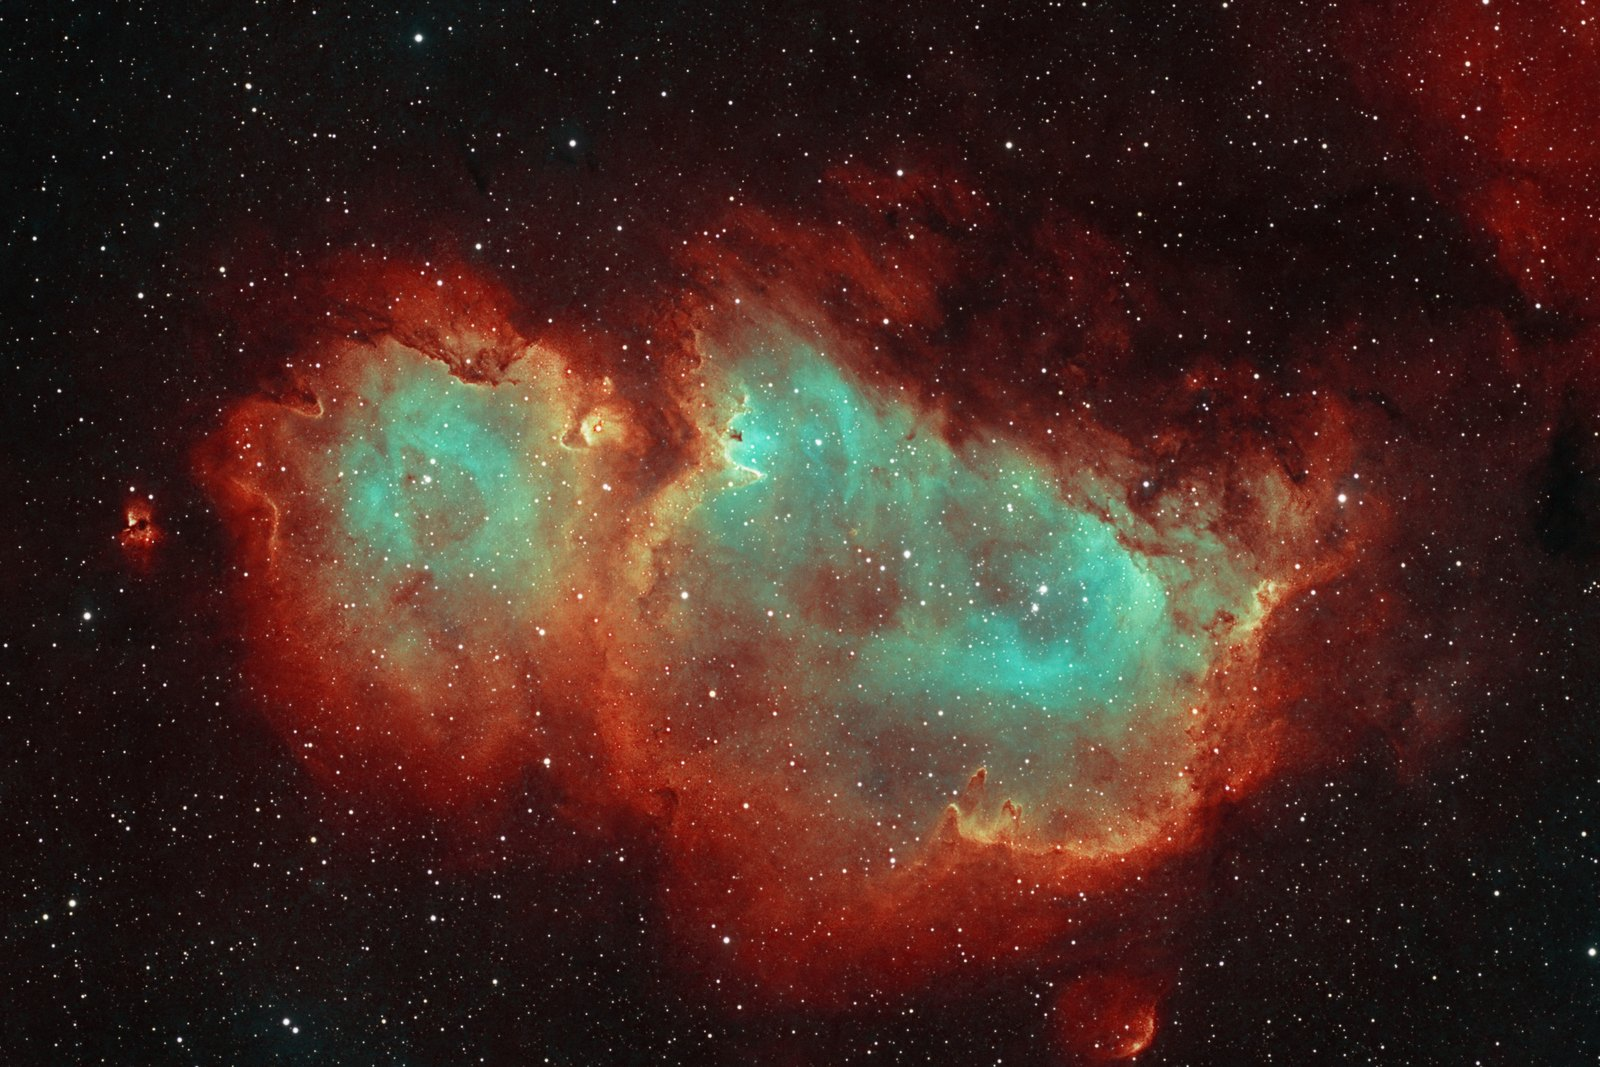
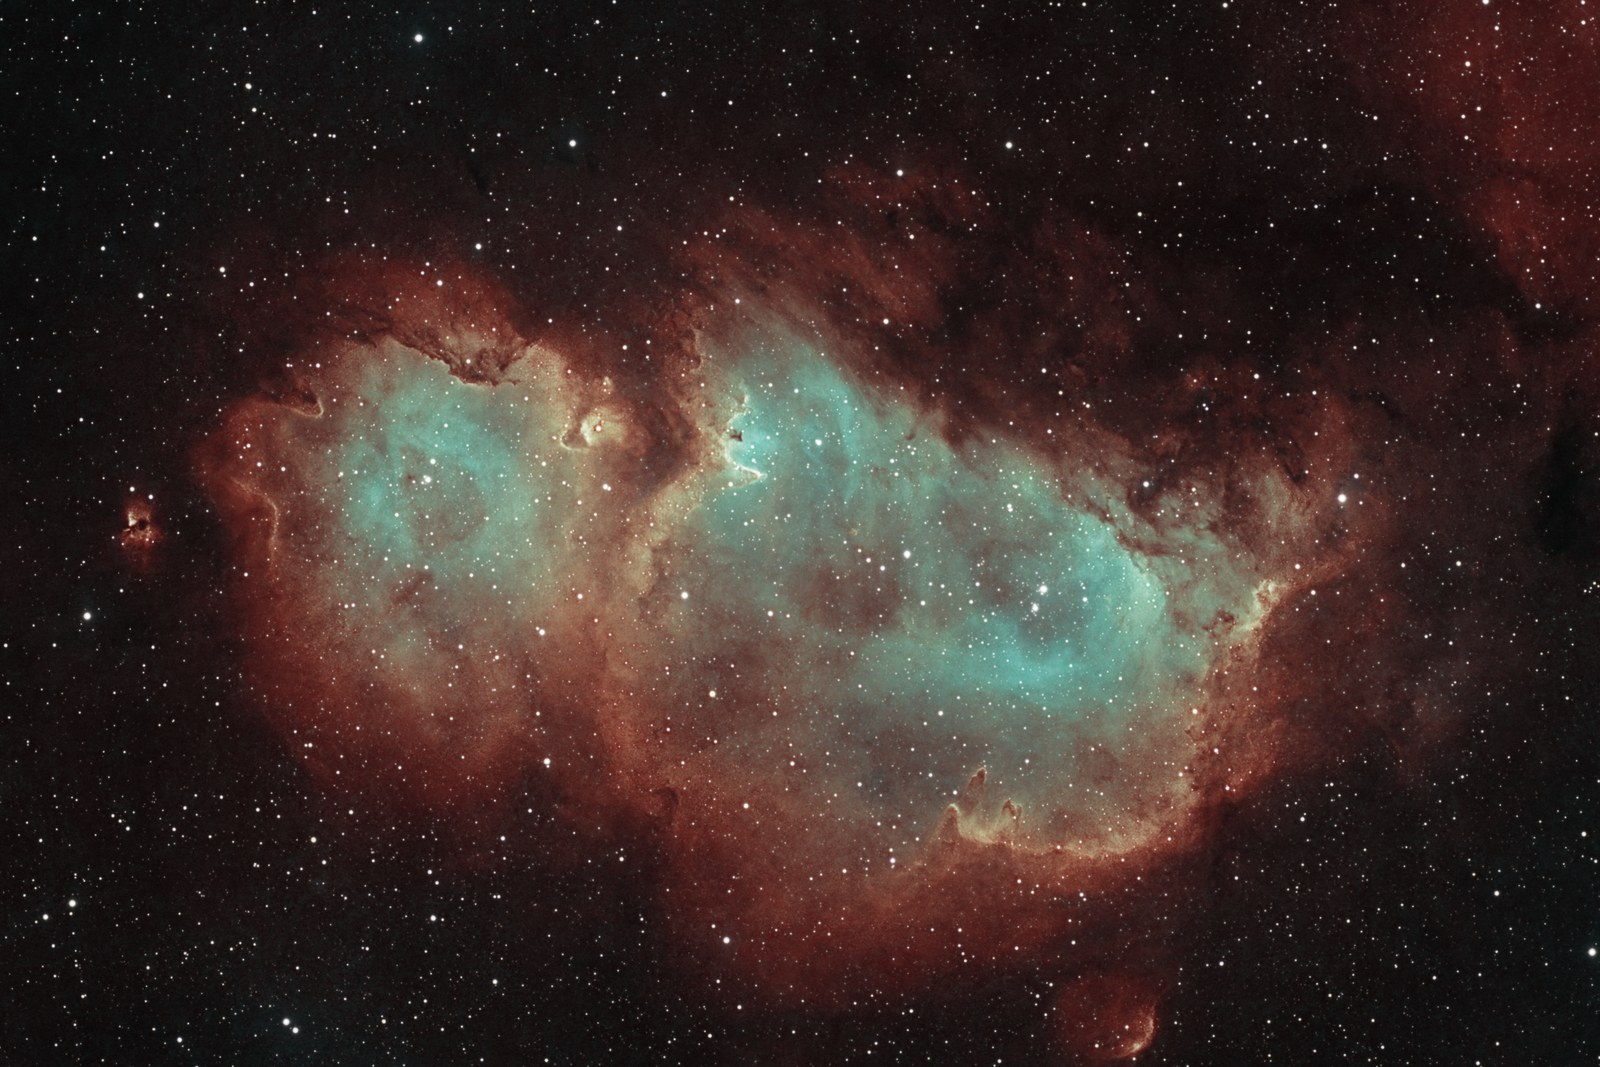
Heart and Soul (Telescope Live): all six images toned to 55% colour; Educator's Guide poster added

diff --git a/index.html b/index.html
@@ -609,6 +609,10 @@ html { scroll-behavior: smooth; }
         <figcaption><b>Heart and Soul, close crop (Telescope Live)</b><span>21 h 50 min · in red and teal or gold and blue</span><span class="credit">Processed by Mark Stanners, original data from Telescope Live</span><span class="sizes"><a class="buy" href="https://buy.stripe.com/6oUdR81Rkf6Fadq2Y60Fi0G" rel="noopener">A4 £25</a> <a class="buy" href="https://buy.stripe.com/14AdR81Rkf6F1GUeGO0Fi0H" rel="noopener">A3 £45</a> <a class="buy" href="https://buy.stripe.com/3cI6oG0NgbUt2KYdCK0Fi0I" rel="noopener">A2 £80</a></span><span class="onreq">A1 on request</span></figcaption>
       </figure>
       <figure class="print">
+        <img src="img/tl_hs_poster.jpg" alt="Heart and Soul – An Educator’s Guide to the Nebulae" loading="lazy">
+        <figcaption><b>Heart and Soul – An Educator’s Guide to the Nebulae</b><span>A labelled poster for the classroom wall: the Heart and the Soul, the young star cluster that lights the Heart, and what the colours mean, with facts below.</span><span class="credit">Processed by Mark Stanners, original data from Telescope Live</span><span class="sizes">A4 £25 A3 £45</span></figcaption>
+      </figure>
+      <figure class="print">
         <img src="img/tl_ic1848_soul.jpg" alt="Soul Nebula, IC 1848" loading="lazy">
         <div class="vers" role="group" aria-label="Version"><button type="button" aria-pressed="true" data-src="img/tl_ic1848_soul.jpg">Red &amp; teal</button><button type="button" aria-pressed="false" data-src="img/tl_ic1848_soul_gold.jpg">Gold &amp; blue</button></div>
         <figcaption><b>Soul Nebula, IC 1848</b><span>21 h 50 min · in red and teal or gold and blue</span><span class="credit">Processed by Mark Stanners, original data from Telescope Live</span><span class="sizes"><a class="buy" href="https://buy.stripe.com/cNi6oG1Rke2Badq6ai0Fi0J" rel="noopener">A4 £25</a> <a class="buy" href="https://buy.stripe.com/aFa28q0Ng9Ml1GUbuC0Fi0K" rel="noopener">A3 £45</a></span></figcaption>
@@ -627,7 +631,7 @@ html { scroll-behavior: smooth; }
     <div class="media">
       <h3>Acrylic and metal</h3>
       <p>Most images can also be made as a face-mounted acrylic or an aluminium-mounted print: deep blacks, ready to hang, no frame needed. Priced on request; as a guide, from about £120 at A3 and £220 at A2.</p>
-      <p class="note">At A3: Heart and Soul, Seestar mosaic; Andromeda, M31; The Pleiades, M45; Elephant&#x27;s Trunk, IC 1396; Garlic Nebula; Horsehead, B33; Horsehead and Flame, full field; Fighting Dragons of Ara, NGC 6188; Running Chicken, IC 2944; Dumbbell Nebula, M27; Ptolemy Cluster, M7; Eagle Nebula, M16; Heart and Soul, deep field with Sh2-200; Heart and Soul, close crop (Telescope Live); Soul Nebula, IC 1848; Andromeda, deep (Telescope Live); Andromeda – An Educator’s Guide to the Galaxy.</p>
+      <p class="note">At A3: Heart and Soul, Seestar mosaic; Andromeda, M31; The Pleiades, M45; Elephant&#x27;s Trunk, IC 1396; Garlic Nebula; Horsehead, B33; Horsehead and Flame, full field; Fighting Dragons of Ara, NGC 6188; Running Chicken, IC 2944; Dumbbell Nebula, M27; Ptolemy Cluster, M7; Eagle Nebula, M16; Heart and Soul, deep field with Sh2-200; Heart and Soul, close crop (Telescope Live); Heart and Soul – An Educator’s Guide to the Nebulae; Soul Nebula, IC 1848; Andromeda, deep (Telescope Live); Andromeda – An Educator’s Guide to the Galaxy.</p>
       <p class="note">At A2: Heart and Soul, Seestar mosaic; Garlic Nebula; Horsehead, B33; Horsehead and Flame, full field; Fighting Dragons of Ara, NGC 6188; Running Chicken, IC 2944; Dumbbell Nebula, M27; Ptolemy Cluster, M7; Heart and Soul, deep field with Sh2-200; Heart and Soul, close crop (Telescope Live).</p>
     </div>
     <p class="note pay"><b>Buying a print.</b> Tap a size to pay securely through Stripe by card, Apple Pay or Google Pay; your card details go to Stripe, never to me. There's a box at checkout for the optional legend wording. I print each one to order and email you when it's posted. UK delivery for now; for anywhere else, a size not listed, or acrylic and metal, email me.</p>

diff --git a/site.html b/site.html
@@ -595,6 +595,10 @@ html { scroll-behavior: smooth; }
         <figcaption><b>Heart and Soul, close crop (Telescope Live)</b><span>21 h 50 min · in red and teal or gold and blue</span><span class="credit">Processed by Mark Stanners, original data from Telescope Live</span><span class="sizes"><a class="buy" href="https://buy.stripe.com/6oUdR81Rkf6Fadq2Y60Fi0G" rel="noopener">A4 £25</a> <a class="buy" href="https://buy.stripe.com/14AdR81Rkf6F1GUeGO0Fi0H" rel="noopener">A3 £45</a> <a class="buy" href="https://buy.stripe.com/3cI6oG0NgbUt2KYdCK0Fi0I" rel="noopener">A2 £80</a></span><span class="onreq">A1 on request</span></figcaption>
       </figure>
       <figure class="print">
+        <img src="img/tl_hs_poster.jpg" alt="Heart and Soul – An Educator’s Guide to the Nebulae" loading="lazy">
+        <figcaption><b>Heart and Soul – An Educator’s Guide to the Nebulae</b><span>A labelled poster for the classroom wall: the Heart and the Soul, the young star cluster that lights the Heart, and what the colours mean, with facts below.</span><span class="credit">Processed by Mark Stanners, original data from Telescope Live</span><span class="sizes">A4 £25 A3 £45</span></figcaption>
+      </figure>
+      <figure class="print">
         <img src="img/tl_ic1848_soul.jpg" alt="Soul Nebula, IC 1848" loading="lazy">
         <div class="vers" role="group" aria-label="Version"><button type="button" aria-pressed="true" data-src="img/tl_ic1848_soul.jpg">Red &amp; teal</button><button type="button" aria-pressed="false" data-src="img/tl_ic1848_soul_gold.jpg">Gold &amp; blue</button></div>
         <figcaption><b>Soul Nebula, IC 1848</b><span>21 h 50 min · in red and teal or gold and blue</span><span class="credit">Processed by Mark Stanners, original data from Telescope Live</span><span class="sizes"><a class="buy" href="https://buy.stripe.com/cNi6oG1Rke2Badq6ai0Fi0J" rel="noopener">A4 £25</a> <a class="buy" href="https://buy.stripe.com/aFa28q0Ng9Ml1GUbuC0Fi0K" rel="noopener">A3 £45</a></span></figcaption>
@@ -613,7 +617,7 @@ html { scroll-behavior: smooth; }
     <div class="media">
       <h3>Acrylic and metal</h3>
       <p>Most images can also be made as a face-mounted acrylic or an aluminium-mounted print: deep blacks, ready to hang, no frame needed. Priced on request; as a guide, from about £120 at A3 and £220 at A2.</p>
-      <p class="note">At A3: Heart and Soul, Seestar mosaic; Andromeda, M31; The Pleiades, M45; Elephant&#x27;s Trunk, IC 1396; Garlic Nebula; Horsehead, B33; Horsehead and Flame, full field; Fighting Dragons of Ara, NGC 6188; Running Chicken, IC 2944; Dumbbell Nebula, M27; Ptolemy Cluster, M7; Eagle Nebula, M16; Heart and Soul, deep field with Sh2-200; Heart and Soul, close crop (Telescope Live); Soul Nebula, IC 1848; Andromeda, deep (Telescope Live); Andromeda – An Educator’s Guide to the Galaxy.</p>
+      <p class="note">At A3: Heart and Soul, Seestar mosaic; Andromeda, M31; The Pleiades, M45; Elephant&#x27;s Trunk, IC 1396; Garlic Nebula; Horsehead, B33; Horsehead and Flame, full field; Fighting Dragons of Ara, NGC 6188; Running Chicken, IC 2944; Dumbbell Nebula, M27; Ptolemy Cluster, M7; Eagle Nebula, M16; Heart and Soul, deep field with Sh2-200; Heart and Soul, close crop (Telescope Live); Heart and Soul – An Educator’s Guide to the Nebulae; Soul Nebula, IC 1848; Andromeda, deep (Telescope Live); Andromeda – An Educator’s Guide to the Galaxy.</p>
       <p class="note">At A2: Heart and Soul, Seestar mosaic; Garlic Nebula; Horsehead, B33; Horsehead and Flame, full field; Fighting Dragons of Ara, NGC 6188; Running Chicken, IC 2944; Dumbbell Nebula, M27; Ptolemy Cluster, M7; Heart and Soul, deep field with Sh2-200; Heart and Soul, close crop (Telescope Live).</p>
     </div>
     <p class="note pay"><b>Buying a print.</b> Tap a size to pay securely through Stripe by card, Apple Pay or Google Pay; your card details go to Stripe, never to me. There's a box at checkout for the optional legend wording. I print each one to order and email you when it's posted. UK delivery for now; for anywhere else, a size not listed, or acrylic and metal, email me.</p>
